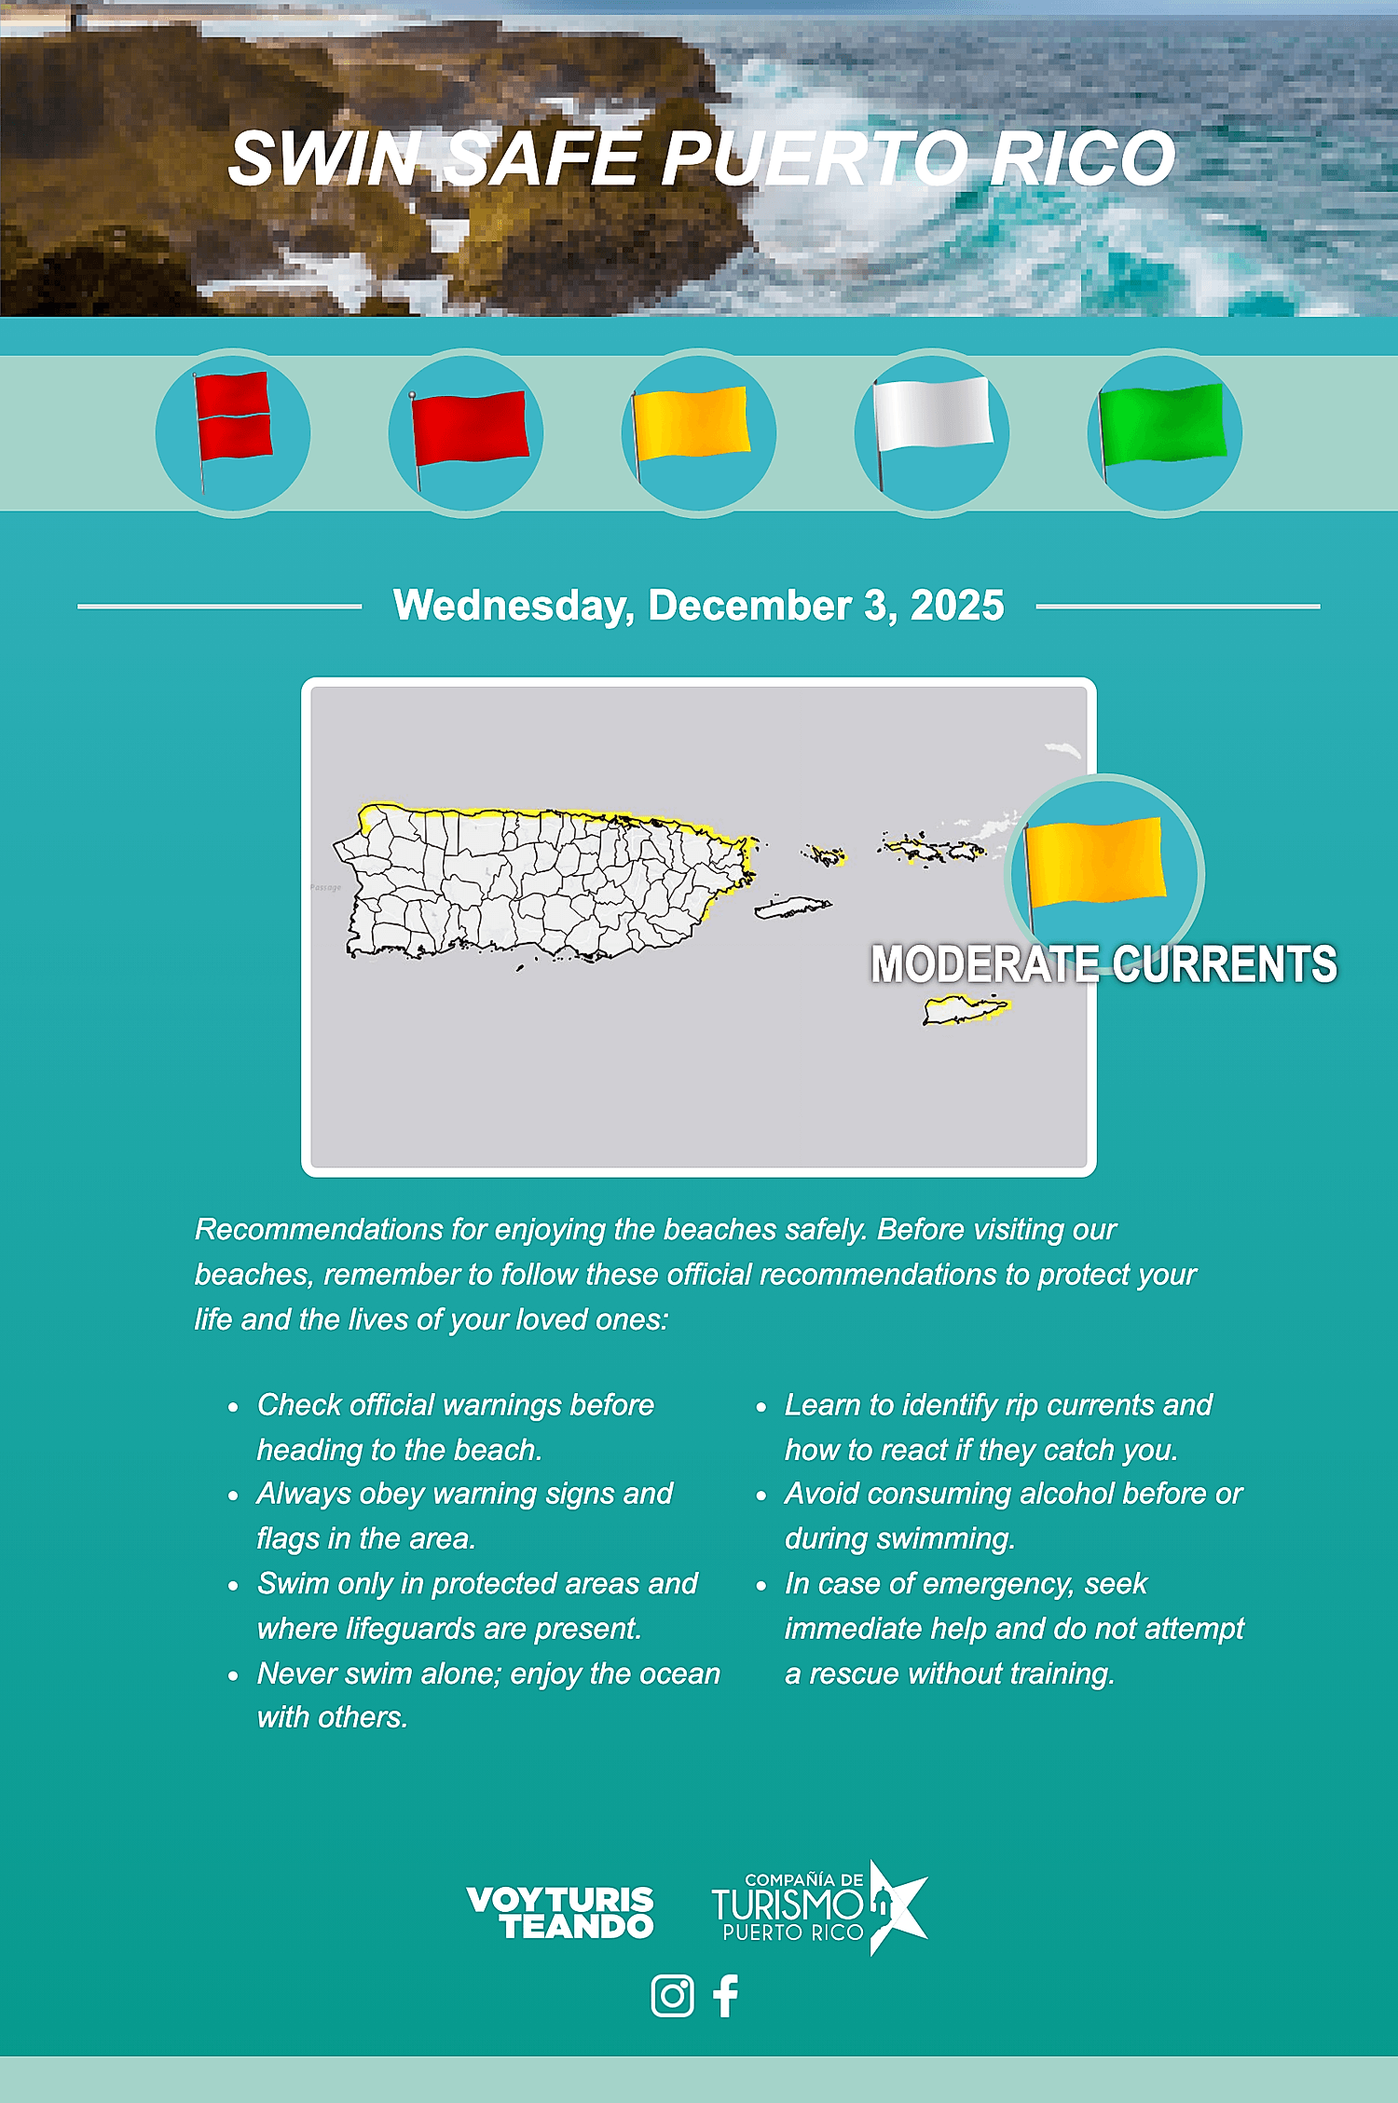
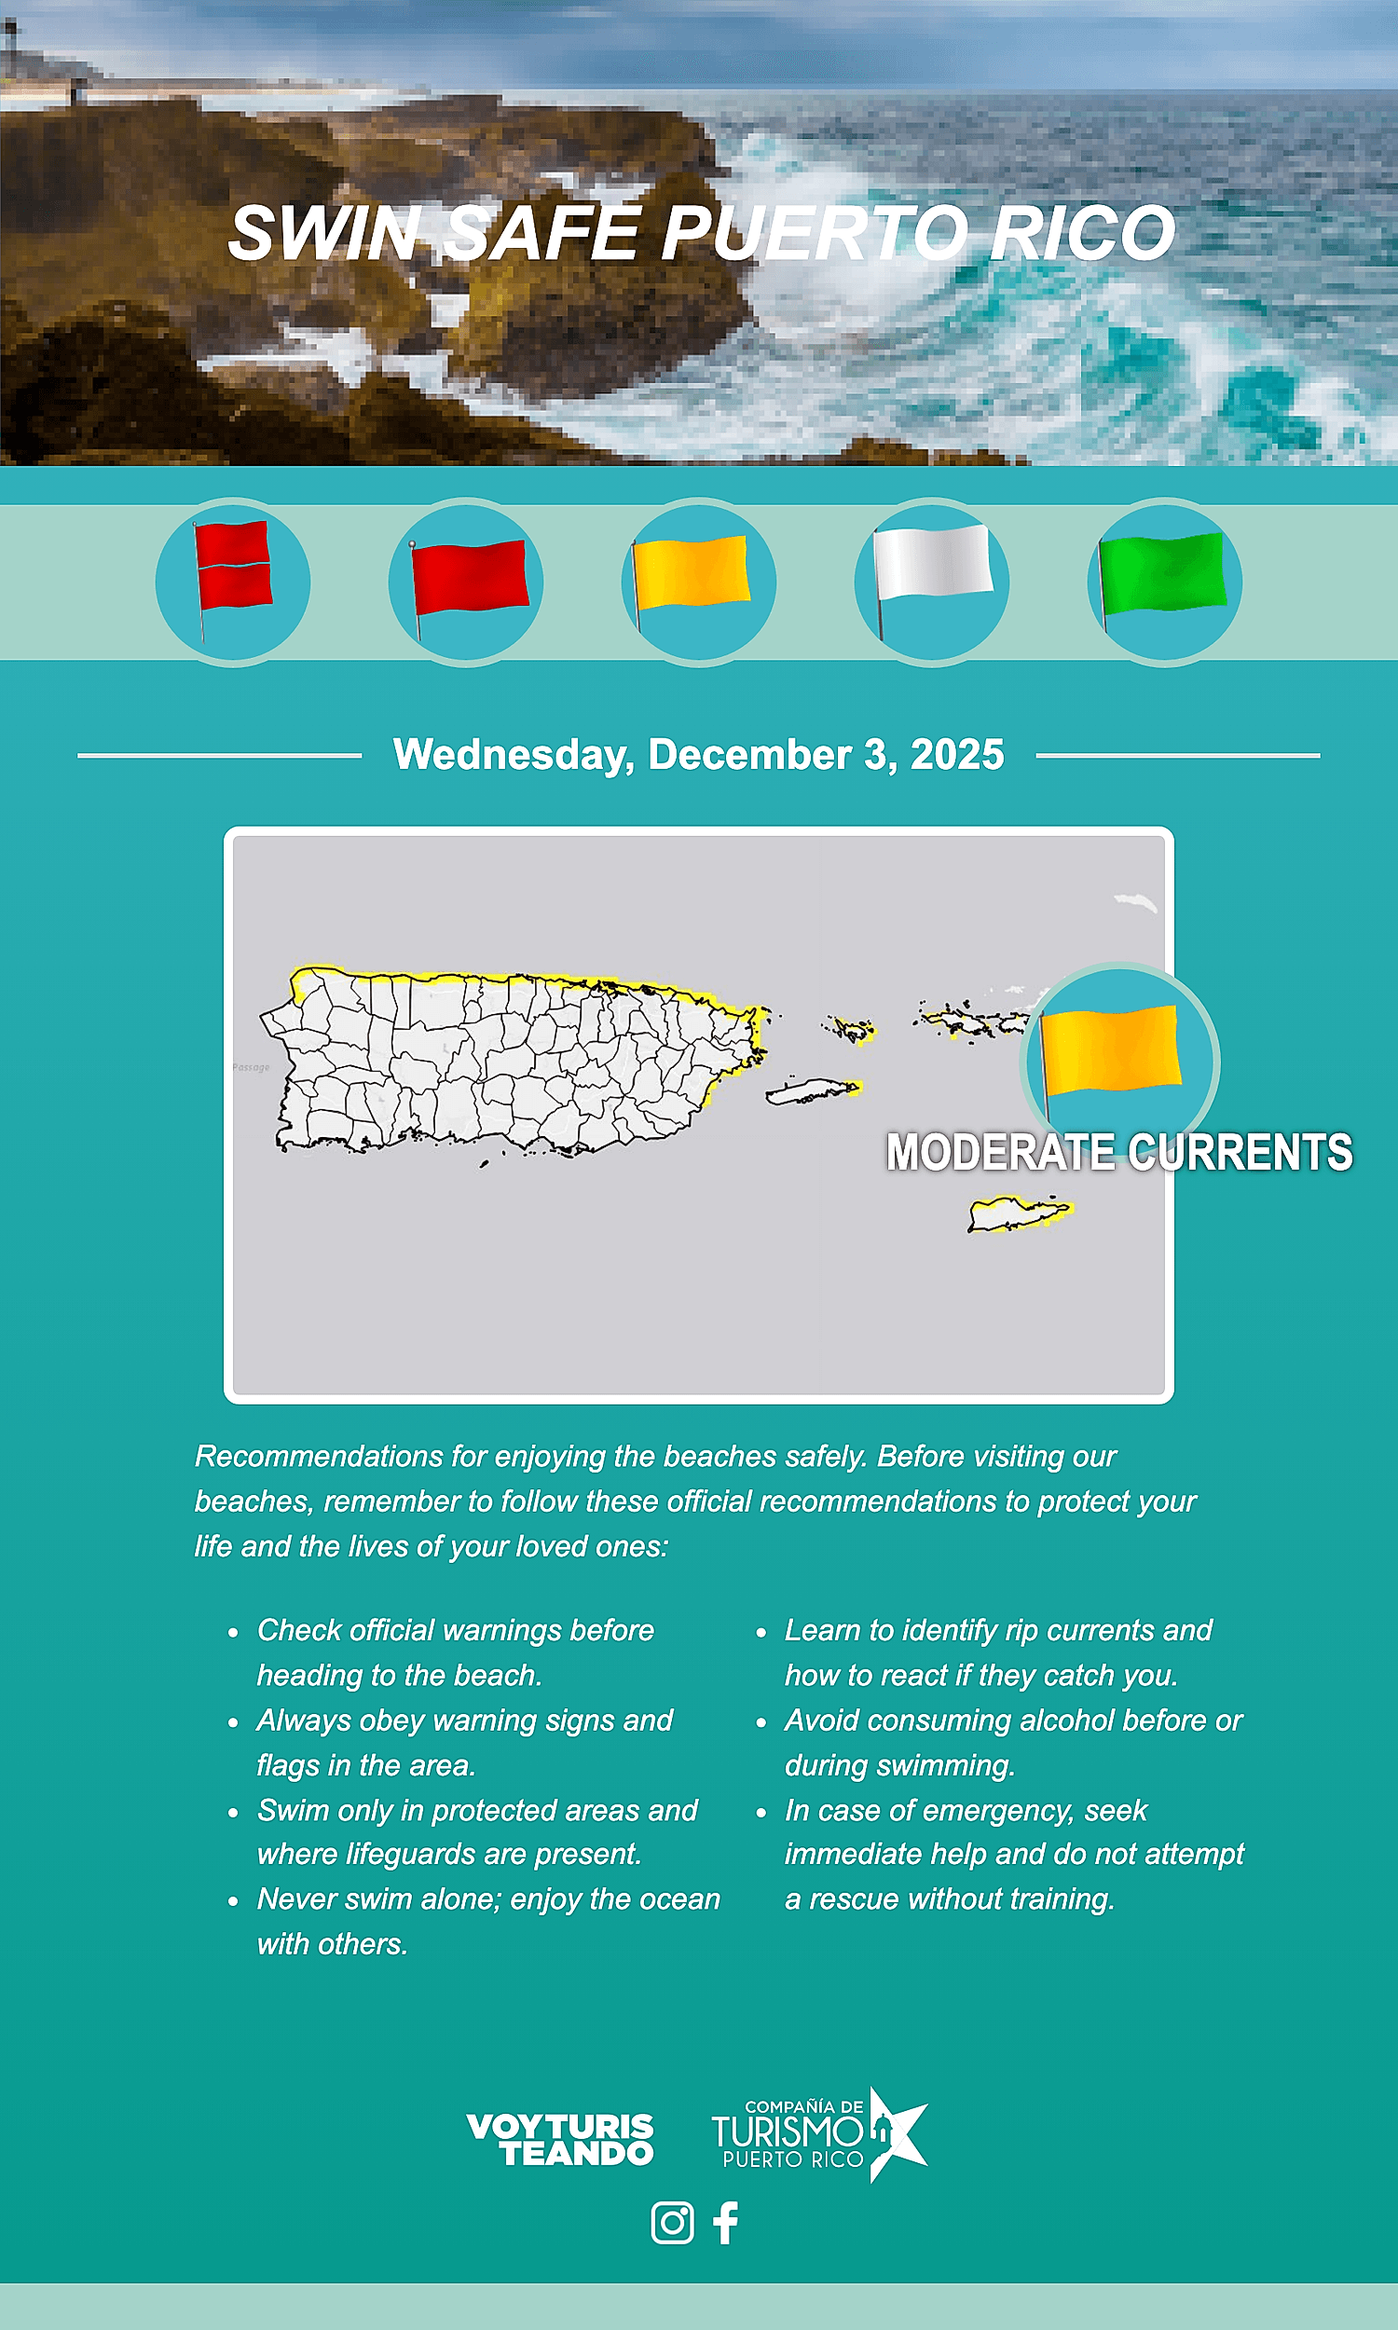
feat: mejorar HTML

diff --git a/src/__test__/test-alert-levels.ts b/src/__test__/test-alert-levels.ts
@@ -1,0 +1,153 @@
+import { ImageProcessorService } from '../services/ImageProcessorService.js';
+import { HTMLGeneratorService } from '../services/HTMLGeneratorService.js';
+import { Logger } from '../services/Logger.js';
+import sharp from 'sharp';
+import path from 'path';
+import { fileURLToPath } from 'url';
+import { dirname } from 'path';
+
+const __filename = fileURLToPath(import.meta.url);
+const __dirname = dirname(__filename);
+
+/**
+ * Test para verificar que los niveles de alerta funcionan correctamente
+ * Prueba 3 escenarios:
+ * 1. Imagen con ROJO → STRONG CURRENTS
+ * 2. Imagen con AMARILLO → MODERATE CURRENTS
+ * 3. Imagen SIN colores de advertencia → CALM CONDITIONS
+ */
+
+async function createTestImage(color: 'red' | 'yellow' | 'none', width: number = 500, height: number = 310): Promise<Buffer> {
+    const pixels = width * height;
+    const channels = 3; // RGB
+    const buffer = Buffer.alloc(pixels * channels);
+
+    for (let i = 0; i < pixels; i++) {
+        const offset = i * channels;
+        
+        if (color === 'red') {
+            // Crear imagen con áreas rojas (R alto, G y B bajos)
+            if (i % 10 < 3) {
+                // 30% de la imagen será roja
+                buffer[offset] = 200;     // R alto
+                buffer[offset + 1] = 50;  // G bajo
+                buffer[offset + 2] = 50;  // B bajo
+            } else {
+                // Resto azul/verde (océano)
+                buffer[offset] = 50;
+                buffer[offset + 1] = 150;
+                buffer[offset + 2] = 200;
+            }
+        } else if (color === 'yellow') {
+            // Crear imagen con áreas amarillas (R y G altos, B bajo)
+            if (i % 10 < 2) {
+                // 20% de la imagen será amarilla
+                buffer[offset] = 200;     // R alto
+                buffer[offset + 1] = 200;  // G alto
+                buffer[offset + 2] = 50;   // B bajo
+            } else {
+                // Resto azul/verde (océano)
+                buffer[offset] = 50;
+                buffer[offset + 1] = 150;
+                buffer[offset + 2] = 200;
+            }
+        } else {
+            // Sin colores de advertencia - solo azul/verde (océano calmado)
+            buffer[offset] = 50;
+            buffer[offset + 1] = 150;
+            buffer[offset + 2] = 200;
+        }
+    }
+
+    return await sharp(buffer, {
+        raw: {
+            width,
+            height,
+            channels: 3
+        }
+    })
+    .jpeg({ quality: 90 })
+    .toBuffer();
+}
+
+async function testAlertLevels() {
+    const logger = new Logger('info');
+    const imageProcessor = new ImageProcessorService(logger);
+    const htmlGenerator = new HTMLGeneratorService(logger);
+
+    console.log('\n╔══════════════════════════════════════════════════════════════╗');
+    console.log('║     TEST DE NIVELES DE ALERTA - SWIM SAFE PR                ║');
+    console.log('╚══════════════════════════════════════════════════════════════╝\n');
+
+    const testCases = [
+        { name: 'ROJO', color: 'red' as const, expectedLevel: 'red', expectedLabel: 'STRONG CURRENTS' },
+        { name: 'AMARILLO', color: 'yellow' as const, expectedLevel: 'yellow', expectedLabel: 'MODERATE CURRENTS' },
+        { name: 'SIN COLORES', color: 'none' as const, expectedLevel: 'white', expectedLabel: 'CALM CONDITIONS' }
+    ];
+
+    for (const testCase of testCases) {
+        console.log(`\n${'='.repeat(60)}`);
+        console.log(`🧪 TEST: ${testCase.name}`);
+        console.log(`${'='.repeat(60)}\n`);
+
+        try {
+            // 1. Crear imagen de prueba
+            console.log(`📸 Creando imagen de prueba (${testCase.color})...`);
+            const testImage = await createTestImage(testCase.color);
+
+            // 2. Detectar colores
+            console.log('🔍 Detectando colores...');
+            const detection = await imageProcessor.detectColors(testImage, 0.5);
+
+            console.log(`   🔴 Rojo: ${detection.redPercentage}%`);
+            console.log(`   🟡 Amarillo: ${detection.yellowPercentage}%`);
+
+            // 3. Determinar nivel de alerta
+            console.log('📊 Determinando nivel de alerta...');
+            const alertStatus = htmlGenerator.determineAlertLevel(detection);
+
+            // 4. Verificar resultado
+            console.log('\n✅ RESULTADO:');
+            console.log(`   Nivel: ${alertStatus.level.toUpperCase()}`);
+            console.log(`   Label: ${alertStatus.label}`);
+            console.log(`   Descripción: ${alertStatus.description}`);
+
+            // 5. Validar
+            const passed = alertStatus.level === testCase.expectedLevel && 
+                          alertStatus.label === testCase.expectedLabel;
+
+            if (passed) {
+                console.log(`\n✅ TEST PASADO: ${testCase.name}`);
+            } else {
+                console.log(`\n❌ TEST FALLIDO: ${testCase.name}`);
+                console.log(`   Esperado: ${testCase.expectedLevel} - ${testCase.expectedLabel}`);
+                console.log(`   Obtenido: ${alertStatus.level} - ${alertStatus.label}`);
+            }
+
+            // 6. Guardar imagen de prueba
+            const outputPath = path.join(__dirname, `../../public/images/test-${testCase.color}.jpg`);
+            await imageProcessor.saveImage(testImage, outputPath);
+            console.log(`💾 Imagen guardada: ${outputPath}`);
+
+        } catch (error) {
+            console.error(`❌ Error en test ${testCase.name}:`, error);
+        }
+    }
+
+    console.log('\n╔══════════════════════════════════════════════════════════════╗');
+    console.log('║              RESUMEN DE TESTS                                ║');
+    console.log('╚══════════════════════════════════════════════════════════════╝\n');
+    console.log('✅ Tests completados');
+    console.log('📁 Imágenes de prueba guardadas en: public/images/');
+    console.log('   - test-red.jpg (debería mostrar STRONG CURRENTS)');
+    console.log('   - test-yellow.jpg (debería mostrar MODERATE CURRENTS)');
+    console.log('   - test-none.jpg (debería mostrar CALM CONDITIONS)');
+    console.log('\n');
+}
+
+// Ejecutar el test
+testAlertLevels().catch((error) => {
+    console.error('❌ Error fatal:', error);
+    process.exit(1);
+});
+

diff --git a/src/__test__/test-generate-all-alerts.ts b/src/__test__/test-generate-all-alerts.ts
@@ -1,0 +1,142 @@
+import { ImageProcessorService } from '../services/ImageProcessorService.js';
+import { HTMLGeneratorService } from '../services/HTMLGeneratorService.js';
+import { ForecastService } from '../services/ForecastService.js';
+import { Logger } from '../services/Logger.js';
+import sharp from 'sharp';
+import path from 'path';
+import { fileURLToPath } from 'url';
+import { dirname } from 'path';
+import fs from 'fs/promises';
+
+const __filename = fileURLToPath(import.meta.url);
+const __dirname = dirname(__filename);
+
+/**
+ * Genera imágenes de output.png para los 3 niveles de alerta
+ * Simula la detección de colores y genera la imagen final
+ */
+
+async function createTestImage(color: 'red' | 'yellow' | 'white', width: number = 500, height: number = 310): Promise<Buffer> {
+    const pixels = width * height;
+    const channels = 3; // RGB
+    const buffer = Buffer.alloc(pixels * channels);
+
+    for (let i = 0; i < pixels; i++) {
+        const offset = i * channels;
+        
+        if (color === 'red') {
+            // Crear imagen con áreas rojas (R alto, G y B bajos)
+            if (i % 10 < 3) {
+                // 30% de la imagen será roja
+                buffer[offset] = 200;     // R alto
+                buffer[offset + 1] = 50;  // G bajo
+                buffer[offset + 2] = 50;  // B bajo
+            } else {
+                // Resto azul/verde (océano)
+                buffer[offset] = 50;
+                buffer[offset + 1] = 150;
+                buffer[offset + 2] = 200;
+            }
+        } else if (color === 'yellow') {
+            // Crear imagen con áreas amarillas (R y G altos, B bajo)
+            if (i % 10 < 2) {
+                // 20% de la imagen será amarilla
+                buffer[offset] = 200;     // R alto
+                buffer[offset + 1] = 200;  // G alto
+                buffer[offset + 2] = 50;   // B bajo
+            } else {
+                // Resto azul/verde (océano)
+                buffer[offset] = 50;
+                buffer[offset + 1] = 150;
+                buffer[offset + 2] = 200;
+            }
+        } else {
+            // Sin colores de advertencia - solo azul/verde (océano calmado)
+            buffer[offset] = 50;
+            buffer[offset + 1] = 150;
+            buffer[offset + 2] = 200;
+        }
+    }
+
+    return await sharp(buffer, {
+        raw: {
+            width,
+            height,
+            channels: 3
+        }
+    })
+    .jpeg({ quality: 90 })
+    .toBuffer();
+}
+
+async function generateAllAlertImages() {
+    const logger = new Logger('info');
+    const imageProcessor = new ImageProcessorService(logger);
+    const htmlGenerator = new HTMLGeneratorService(logger);
+
+    console.log('\n╔══════════════════════════════════════════════════════════════╗');
+    console.log('║     GENERANDO IMÁGENES PARA TODOS LOS NIVELES DE ALERTA      ║');
+    console.log('╚══════════════════════════════════════════════════════════════╝\n');
+
+    const testCases = [
+        { name: 'STRONG CURRENTS (ROJO)', color: 'red' as const, level: 'red' },
+        { name: 'MODERATE CURRENTS (AMARILLO)', color: 'yellow' as const, level: 'yellow' },
+        { name: 'CALM CONDITIONS (BLANCO)', color: 'white' as const, level: 'white' }
+    ];
+
+    for (const testCase of testCases) {
+        console.log(`\n${'='.repeat(60)}`);
+        console.log(`🎨 Generando: ${testCase.name}`);
+        console.log(`${'='.repeat(60)}\n`);
+
+        try {
+            // 1. Crear imagen de prueba simulada
+            console.log(`📸 Creando imagen de forecast simulada (${testCase.color})...`);
+            const testImage = await createTestImage(testCase.color);
+
+            // 2. Guardar imagen temporal como forecast.jpg
+            const forecastPath = path.join(__dirname, '../../public/images/forecast.jpg');
+            await imageProcessor.saveImage(testImage, forecastPath);
+            console.log(`✅ Imagen guardada: ${forecastPath}`);
+
+            // 3. Detectar colores
+            console.log('🔍 Detectando colores...');
+            const detection = await imageProcessor.detectColors(testImage, 0.5);
+            console.log(`   🔴 Rojo: ${detection.redPercentage}%`);
+            console.log(`   🟡 Amarillo: ${detection.yellowPercentage}%`);
+
+            // 4. Actualizar HTML con el estado correcto
+            console.log('📝 Actualizando HTML...');
+            const alertStatus = await htmlGenerator.updateHTML(detection);
+            console.log(`   ✅ Estado: ${alertStatus.label}`);
+
+            // 5. Generar imagen final
+            console.log('🖼  Generando imagen final...');
+            const outputPath = path.join(__dirname, `../../public/final/output-${testCase.level}.png`);
+            await htmlGenerator.exportToImage(outputPath, 1500, 2500, 'png');
+            
+            console.log(`\n✅ Imagen generada: ${outputPath}`);
+            console.log(`   📊 Estado mostrado: ${alertStatus.label}`);
+
+        } catch (error) {
+            console.error(`❌ Error generando ${testCase.name}:`, error);
+        }
+    }
+
+    console.log('\n╔══════════════════════════════════════════════════════════════╗');
+    console.log('║              RESUMEN                                         ║');
+    console.log('╚══════════════════════════════════════════════════════════════╝\n');
+    console.log('✅ Imágenes generadas exitosamente:');
+    console.log('   📁 public/final/');
+    console.log('      - output-red.png (STRONG CURRENTS)');
+    console.log('      - output-yellow.png (MODERATE CURRENTS)');
+    console.log('      - output-white.png (CALM CONDITIONS)');
+    console.log('\n💡 Puedes abrir estas imágenes para ver cómo se ven los diferentes estados\n');
+}
+
+// Ejecutar
+generateAllAlertImages().catch((error) => {
+    console.error('❌ Error fatal:', error);
+    process.exit(1);
+});
+

diff --git a/public/global.css b/public/global.css
@@ -58,8 +58,8 @@ th {
     background-position: center;
     background-repeat: no-repeat;
     width: 100%;
-    height: 250px;
-    flex-shrink: 1;
+    height: 300px;
+    flex-shrink: 0;  /* No se encoge */
     display: flex;
     justify-content: center;
     align-items: center;
@@ -150,7 +150,7 @@ th {
 
 .status-overlay {
     position: absolute;
-    right: -80px;
+    right: -40px;
     top: 50%;
     transform: translateY(-60%);
     z-index: 10;
@@ -264,8 +264,8 @@ th {
 }
 
 .map-workflow {
-    width: 500px;
-    height: 310px;
+    width: 600px;
+    height: 360px;
     border: 6px solid white;
     background-image: url('images/forecast.jpg');
     border-radius: 10px;

diff --git a/src/services/ForecastService.ts b/src/services/ForecastService.ts
@@ -59,11 +59,11 @@ export class ForecastService {
             // 5. Actualizar el HTML con la bandera correcta
             const alertStatus = await this.htmlGenerator.updateHTML(colorDetection);
             
-            // 6. Exportar HTML a imagen HD (1500x2257px)
+            // 6. Exportar HTML a imagen HD (1500x2500px)
             const outputImagePath = await this.htmlGenerator.exportToImage(
                 undefined,
                 1500,      // Ancho final HD
-                2257,      // Alto final HD
+                2500,      // Alto final HD (más alto para incluir footer)
                 'png'
             );
             

diff --git a/src/services/HTMLGeneratorService.ts b/src/services/HTMLGeneratorService.ts
@@ -173,7 +173,7 @@ export class HTMLGeneratorService {
 
             // Viewport ajustado al contenido del HTML (luego se hace upscaling con Sharp)
             const captureWidth = 900;
-            const captureHeight = 1354;
+            const captureHeight = 1500;
 
             // Configuración de Puppeteer optimizada para servidores con poca RAM
             const launchOptions: any = {
